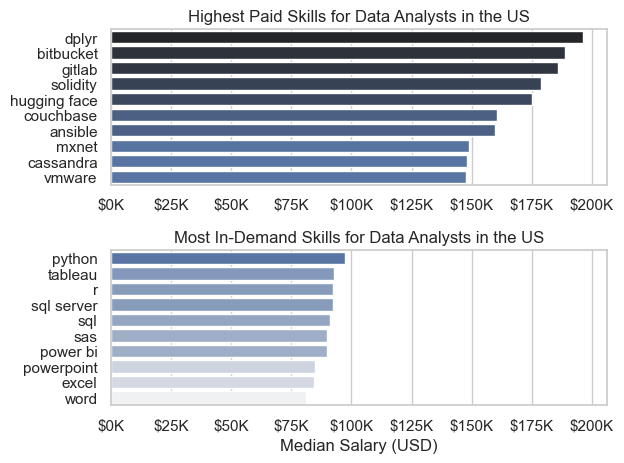
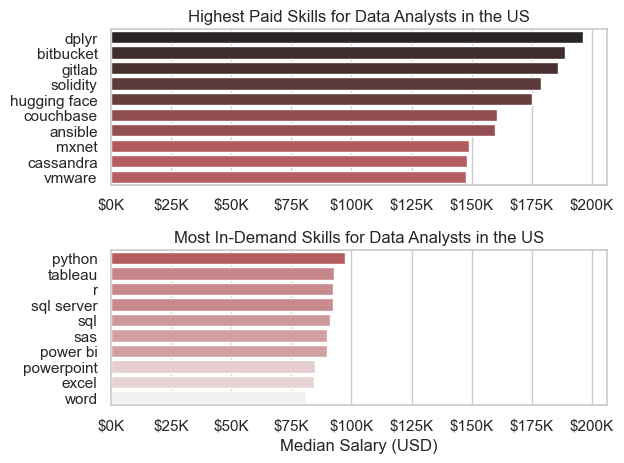
image

Changed region(s): [[0.1827, 0.1512, 0.883, 0.3931], [0.1827, 0.5443, 0.5785, 0.7862]]

diff --git a/Job_Data_Project/README.md b/Job_Data_Project/README.md
@@ -146,7 +146,7 @@ plt.show()
 
 ## 3. How well do jobs and skills pay for Data Analysts?
 
-To identify the highest-paying roles and skills, I only got jobs in the United States and looked at their median salary. But first I looked at the salary distributions of common data jobs like Data Scientist, Data Engineer, and Data Analyst, to get an idea of which jobs are paid the most. 
+To pinpoint the highest-paying jobs and skills, I first filtered for jobs in the United States and their respective median salary. Then, I looked at the salary distributions of common data jobs like Data Scientist, Data Engineer, and Data Analyst, and their senior roles, to get an idea of which jobs are paid the most. 
 
 View my notebook with detailed steps here: [4_Salary_Analysis](4_Salary_Analysis.ipynb).
 
@@ -154,11 +154,16 @@ View my notebook with detailed steps here: [4_Salary_Analysis](4_Salary_Analysis
 
 ```python
 sns.boxplot(data=df_US_top6, x='salary_year_avg', y='job_title_short', order=job_order)
+sns.set_theme(style='whitegrid')
+sns.despine()
 
+plt.title('Salary Distributions of Data Jobs in the US')
+plt.xlabel('Yearly Salary (USD)')
+plt.ylabel('')
+plt.xlim(0, 600000) 
 ticks_x = plt.FuncFormatter(lambda y, pos: f'${int(y/1000)}K')
 plt.gca().xaxis.set_major_formatter(ticks_x)
 plt.show()
-
 ```
 
 #### Results
@@ -168,36 +173,49 @@ plt.show()
 
 #### Insights
 
-- There's a significant variation in salary ranges across different job titles. Senior Data Scientist positions tend to have the highest salary potential, with up to $600K, indicating the high value placed on advanced data skills and experience in the industry.
+- The difference in salaries among the selected positions is very significant. Senior Data Scientist positions have the highest median salaray and salary potential, which indicates the value placed in advanced and varied data skills and experience.
 
-- Senior Data Engineer and Senior Data Scientist roles show a considerable number of outliers on the higher end of the salary spectrum, suggesting that exceptional skills or circumstances can lead to high pay in these roles. In contrast, Data Analyst roles demonstrate more consistency in salary, with fewer outliers.
+- All of these roles show a considerable number of outliers above the box plot maximum, which suggests that exceptional skills or circumstances can cause there to be high pay.
 
-- The median salaries increase with the seniority and specialization of the roles. Senior roles (Senior Data Scientist, Senior Data Engineer) not only have higher median salaries but also larger differences in typical salaries, reflecting greater variance in compensation as responsibilities increase.
+- The median salaries increase with the seniority and specialization of the roles. The data shows a consistent increase in salary from data analyst roles to data engineer roles to data scientist roles. This increase holds true for the senior positions as well.
 
 ### Highest Paid & Most Demanded Skills for Data Analysts
 
-Next, I narrowed my analysis and focused only on data analyst roles. I looked at the highest-paid skills and the most in-demand skills. I used two bar charts to showcase these.
+Next, I narrowed my analysis by focusing on only data analyst roles. I looked at both the highest-paid skills and the most in-demand skills. I used two horizontal bar charts to showcase these. Below is selected code and the charts.
 
 #### Visualize Data
 
 ```python
-
 fig, ax = plt.subplots(2, 1)  
 
 # Top 10 Highest Paid Skills for Data Analysts
-sns.barplot(data=df_DA_top_pay, x='median', y=df_DA_top_pay.index, hue='median', ax=ax[0], palette='dark:b_r')
+sns.barplot(data=df_DA_top_pay, x='median', y=df_DA_top_pay.index, hue='median', ax=ax[0], palette='dark:r_r')
+ax[0].legend().remove()
+ax[0].set_title('Highest Paid Skills for Data Analysts in the US')
+ax[0].set_ylabel('')
+ax[0].set_xlabel('')
+ax[0].xaxis.set_major_formatter(plt.FuncFormatter(lambda x, _: f'${int(x/1000)}K'))
 
-# Top 10 Most In-Demand Skills for Data Analystsr')
-sns.barplot(data=df_DA_skills, x='median', y=df_DA_skills.index, hue='median', ax=ax[1], palette='light:b')
 
+# Top 10 Most In-Demand Skills for Data Analysts
+sns.barplot(data=df_DA_skills, x='median', y=df_DA_skills.index, hue='median', ax=ax[1], palette='light:r')
+ax[1].legend().remove()
+ax[1].set_title('Most In-Demand Skills for Data Analysts in the US')
+ax[1].set_ylabel('')
+ax[1].set_xlabel('Median Salary (USD)')
+ax[1].set_xlim(ax[0].get_xlim())  # Set the same x-axis limits as the first plot
+ax[1].xaxis.set_major_formatter(plt.FuncFormatter(lambda x, _: f'${int(x/1000)}K'))
+
+sns.set_theme(style='whitegrid')
+plt.tight_layout()
 plt.show()
-
 ```
 
 #### Results
 Here's the breakdown of the highest-paid & most in-demand skills for data analysts in the US:
 
 ![The Highest Paid & Most In-Demand Skills for Data Analysts in the US](images/Highest_Paid_and_Most_In_Demand_Skills_for_Data_Analysts_in_the_US.png)
+
 *Two separate bar graphs visualizing the highest paid skills and most in-demand skills for data analysts in the US.*
 
 #### Insights:
